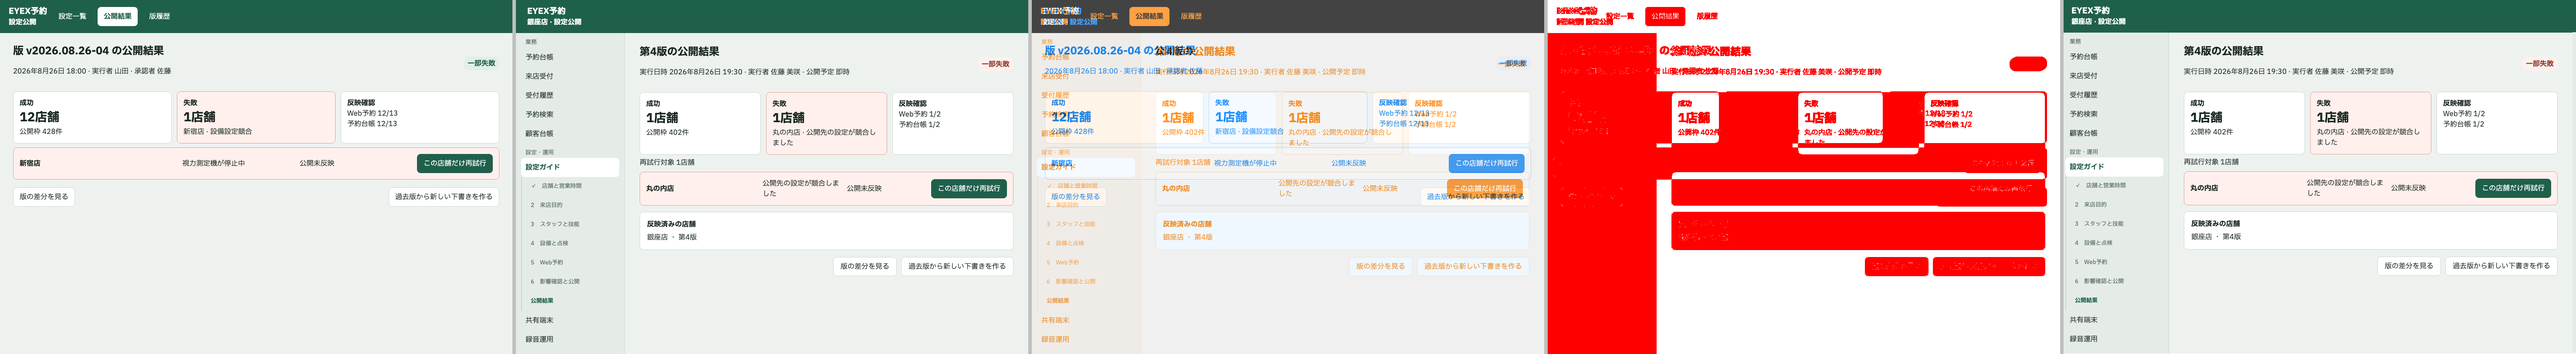
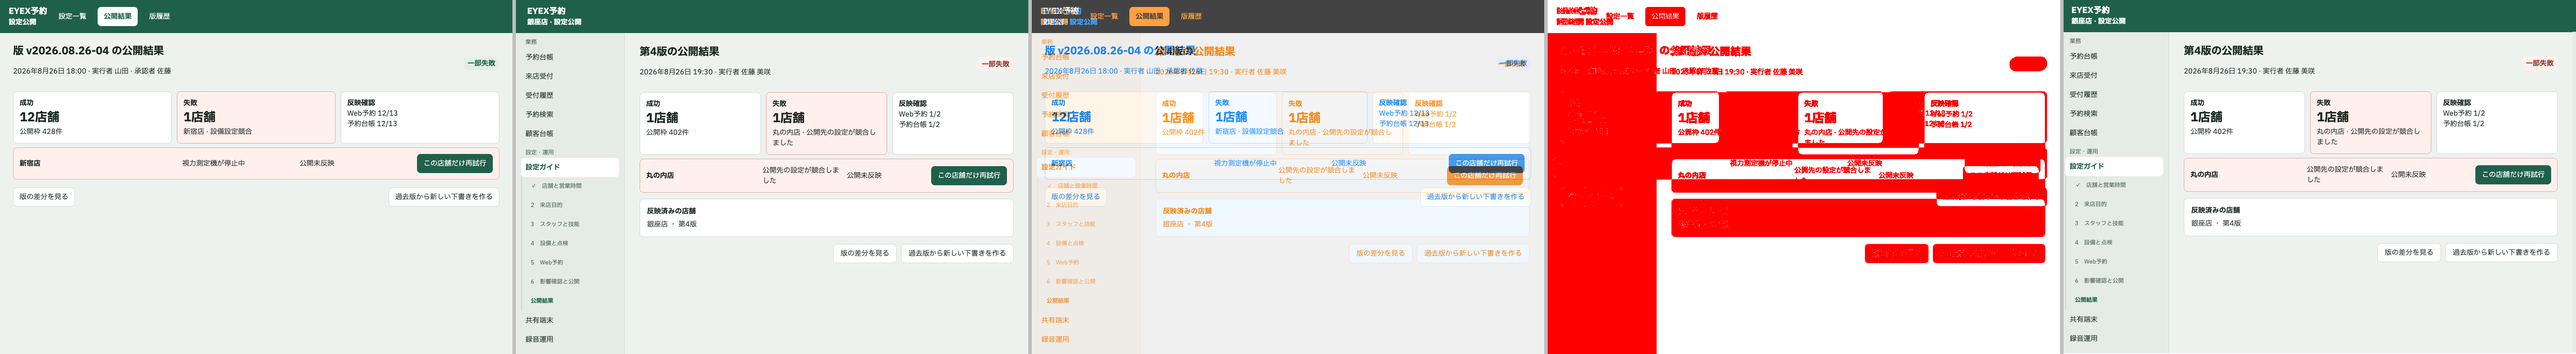
fix: let the result and analytics faces read the way the mocks read
- 公開結果の実行の行から「実行日時」の札と「公開予定 即時」を外した。結果の面は
  もう起きたことを語る面で、そこで予定を言い直す意味がない（予約したまま未実行の
  版だけは、いつ公開されるのかを引き続き名乗る）。「再試行対象 1店舗」も落とした
  ——その下に並ぶ行の数が同じことを言っている（SETTINGS-RESULT 47.2% → 42.7%）。
- 分析は待ち時間の面で撮るようにした。モックはその面で、既定の「予約と来店」で
  撮ると同じ画面の別の観点を並べて比べることになる。
- 分布は代表値（中央値）を見出しの大きさで立て、平均・90 パーセンタイル・最大を
  下へ小さく添えるようにした。4 つを同じ大きさで `/` 繋ぎにすると、どれを先に
  読めばよいかが決まらない（ANALYTICS 43.1% → 40.3%）。

diff --git a/services/glasses_management/src/web/analytics-view.ts b/services/glasses_management/src/web/analytics-view.ts
@@ -243,6 +243,10 @@ export type DistributionView = {
   suppressionNote: string | undefined
   sampleCountText: string
   summaryText: string
+  /** 代表値。モックはここだけを見出しの大きさで立てる。 */
+  medianText: string
+  /** 散らばり。代表値の下に小さく添える。 */
+  spreadText: string
   rows: DistributionRow[]
 }
 
@@ -261,6 +265,22 @@ export function distributionView(distribution: AnalyticsStageDistribution): Dist
     distribution.maxMinutes === null
       ? HIDDEN
       : `中央値 ${distribution.medianMinutes}分 / 平均 ${distribution.averageMinutes}分 / 90パーセンタイル ${distribution.p90Minutes}分 / 最大 ${distribution.maxMinutes}分`
+  /*
+   * モックは代表値（中央値）を見出しの大きさで立て、散らばりはその下に小さく
+   * 添える。4 つを同じ大きさで `/` 繋ぎにすると、どれを先に読めばよいかが
+   * 決まらず、分布の代表値が文字列に埋もれる。
+   */
+  const medianText =
+    hidden || distribution.medianMinutes === null
+      ? HIDDEN
+      : `中央値 ${distribution.medianMinutes}分`
+  const spreadText =
+    hidden ||
+    distribution.averageMinutes === null ||
+    distribution.p90Minutes === null ||
+    distribution.maxMinutes === null
+      ? HIDDEN
+      : `平均 ${distribution.averageMinutes}分 · 90パーセンタイル ${distribution.p90Minutes}分 · 最大 ${distribution.maxMinutes}分`
   return {
     stage: distribution.stage,
     label: distribution.label,
@@ -269,6 +289,8 @@ export function distributionView(distribution: AnalyticsStageDistribution): Dist
     suppressionNote: suppressionNote(distribution.suppressionReason),
     sampleCountText: hidden ? HIDDEN : `対象${distribution.sampleCount}件`,
     summaryText,
+    medianText,
+    spreadText,
     rows: hidden
       ? []
       : distribution.buckets.map((bucket) => ({

diff --git a/services/glasses_management/src/web/settings-publication-view.ts b/services/glasses_management/src/web/settings-publication-view.ts
@@ -311,6 +311,20 @@ export type PublicationView = {
   statusTone: 'success' | 'warning' | 'danger' | 'neutral'
   scheduledLabel: string
   executedLabel: string
+  /**
+   * 公開結果の見出しの下に置く実行の日時。
+   *
+   * `executedLabel` は予定と並べて読む面（一覧・工程6）のための札付きの語で、
+   * 結果の面はもう起きたことだけを語るので札を外す（モックは
+   * `2026年8月26日 18:00 · 実行者 山田 · 承認者 佐藤`）。
+   */
+  executedLine: string
+  /**
+   * 結果の面に添える公開予定。その場で公開したときは持たない——「即時」は
+   * 実行の日時が既に言っていることで、結果の面に予定の話を残す意味がない。
+   * 予約したまま未実行の版だけが、いつ公開されるのかをここで名乗る。
+   */
+  scheduledLine: string | undefined
   /** 見出しの名乗り。人が読む採番で、保存用の UUID は含めない。 */
   versionLabel: string
   /** 成功した店舗数（モックは 28px で立てる）。 */
@@ -364,6 +378,12 @@ export function publicationView(publication: SettingsPublication): PublicationVi
       publication.executedAt === null
         ? '実行日時 未実行'
         : `実行日時 ${formatJstInstant(publication.executedAt)}`,
+    executedLine:
+      publication.executedAt === null ? '未実行' : formatJstInstant(publication.executedAt),
+    scheduledLine:
+      publication.scheduledForJst === null
+        ? undefined
+        : `公開予定 ${formatJstWallClock(publication.scheduledForJst)}`,
     appliedCount: publication.appliedCount,
     failedCount: publication.failedCount,
     slotCountLabel: `公開枠 ${String(effect.publishedSlotCount)}件`,

diff --git a/services/glasses_management/src/web/SettingsPublication.tsx b/services/glasses_management/src/web/SettingsPublication.tsx
@@ -486,9 +486,9 @@ export function SettingsPublication({
              */}
             <p>
               {[
-                result.executedLabel,
+                result.executedLine,
                 ...(resultVersion === undefined ? [] : [`実行者 ${resultVersion.publishedBy}`]),
-                result.scheduledLabel,
+                ...(result.scheduledLine === undefined ? [] : [result.scheduledLine]),
               ].join(' · ')}
             </p>
           </div>
@@ -523,8 +523,6 @@ export function SettingsPublication({
         {/* 失敗した店舗は 1 店舗 1 行。まとめの数字だけにしない。 */}
         {result.failed.length > 0 && (
           <section aria-label="失敗した店舗">
-            {/* 再試行が何店舗に当たるのかを、押す前に語で出す。 */}
-            <Line>{`再試行対象 ${result.retryStoreIds.length}店舗`}</Line>
             {result.failed.map((target) => (
               <AdminRow key={target.storeId} tone="error" label={storeLabel(target.storeId)}>
                 <b>{storeLabel(target.storeId)}</b>

diff --git a/services/glasses_management/src/web/AnalyticsScreen.tsx b/services/glasses_management/src/web/AnalyticsScreen.tsx
@@ -448,8 +448,10 @@ export function AnalyticsScreen({ storeId, api, permissions, today, navigate }: 
                 <section aria-label={`${view.label} の分布`} className="mt-4.5">
                   <h2 className="my-0 text-h3">{view.label}</h2>
                   <VizNote>{view.definition}</VizNote>
-                  <p className="my-0 text-viz-body">{view.summaryText}</p>
-                  <VizNote>{view.sampleCountText}</VizNote>
+                  {/* モックは代表値を見出しの大きさで立て、散らばりと件数を
+                      その下へ小さく添える（`中央値  8分40秒`）。 */}
+                  <p className="my-0 font-bold text-figure text-pine">{view.medianText}</p>
+                  <VizNote>{`${view.spreadText}　${view.sampleCountText}`}</VizNote>
                   {view.suppressionNote && <VizNote>{view.suppressionNote}</VizNote>}
                   {/*
                    * 分布の柱は「多い/少ない」であって良し悪しではない。一番高い

diff --git a/services/glasses_management/src/web/AnalyticsScreen.test.tsx b/services/glasses_management/src/web/AnalyticsScreen.test.tsx
@@ -286,8 +286,11 @@ test('wait time is shown as a distribution, not only an average', async () => {
   renderScreen(api)
   await openSection('待ち時間')
   const region = await screen.findByRole('region', { name: '受付から接客開始まで の分布' })
+  /* 代表値は見出しの大きさで立て、散らばりはその下へ添える（モックの
+     `中央値  8分40秒`）。平均だけで読ませないことは変わらない。 */
+  expect(within(region).getByText('中央値 8分')).toBeTruthy()
   expect(
-    within(region).getByText('中央値 8分 / 平均 9.2分 / 90パーセンタイル 18分 / 最大 32分'),
+    within(region).getByText(/平均 9.2分 · 90パーセンタイル 18分 · 最大 32分/),
   ).toBeTruthy()
   // Every bar carries its own label and count, so the chart never depends on colour.
   expect(within(region).getByText('0〜5分')).toBeTruthy()

diff --git a/services/glasses_management/src/web/analytics-view.test.ts b/services/glasses_management/src/web/analytics-view.test.ts
@@ -434,3 +434,14 @@ test('alert conditions are named for the administrator who configures them', () 
   expect(alertConditionLabel('recording_save_failure')).toBe('録音の保存失敗')
   expect(alertConditionLabel('settings_contradiction')).toBe('設定の矛盾')
 })
+
+/*
+ * 承認済みモックの待ち時間は `中央値  8分40秒` を大きく立て、平均・90 パーセン
+ * タイル・最大はその下に小さく添える。4 つを同じ大きさで `/` 繋ぎにすると、
+ * どれを先に読めばよいかが決まらず、分布の代表値が文字列に埋もれる。
+ */
+test('分布は中央値を見出しに立て、残りを下へ添える', () => {
+  const view = distributionView(distribution())
+  expect(view.medianText).toBe('中央値 8分')
+  expect(view.spreadText).toBe('平均 9.2分 · 90パーセンタイル 18分 · 最大 32分')
+})

diff --git a/services/glasses_management/src/web/settings-publication-view.test.ts b/services/glasses_management/src/web/settings-publication-view.test.ts
@@ -431,3 +431,14 @@ test('a publication that has not applied anywhere yet names no version number', 
   // 採番はまだ決まっていない。分かっていない番号を作り出さず、名乗りだけ出す。
   expect(view.versionLabel).toBe('公開結果')
 })
+
+/*
+ * 公開結果の見出しの下は、モックでは `2026年8月26日 18:00 · 実行者 山田 ·
+ * 承認者 佐藤` である。実行した日時に「実行日時」と札を付けず、その場で公開
+ * したことを「公開予定 即時」と言い直しもしない——結果の面はもう起きたことを
+ * 語る面で、予定の話はここにはない。
+ */
+test('公開結果の実行の行は、日時をそのまま名乗る', () => {
+  const view = publicationView(publication())
+  expect(view.executedLine).toBe('2026年8月26日 18:00')
+})

diff --git a/services/glasses_management/e2e/screens.capture.ts b/services/glasses_management/e2e/screens.capture.ts
@@ -2699,6 +2699,12 @@ async function captureAnalyticsScreen(browser: Browser) {
   await visible(page.getByRole('heading', { name: '店舗運用の分析' }))
   await page.getByLabel('対象日').fill('2026-08-27')
   await page.getByText('対象件数 214件').waitFor({ state: 'visible' })
+  /* モックの分析は「待ち時間」の面（`中央値 8分40秒` と時間帯の柱）。既定の
+     「予約と来店」で撮ると、同じ画面の別の観点を並べて比べることになる。 */
+  await page
+    .getByRole('navigation', { name: '画面の一覧' })
+    .getByRole('button', { name: '待ち時間' })
+    .click()
   await shot(page, 'ANALYTICS', 'default', 'ipad-landscape')
   await page.context().close()
 }
